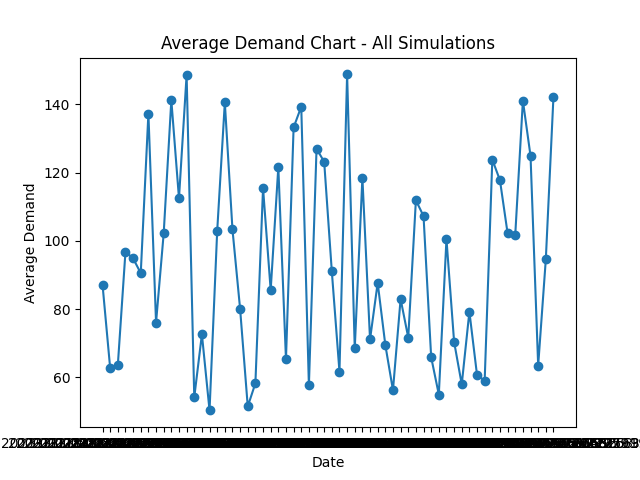
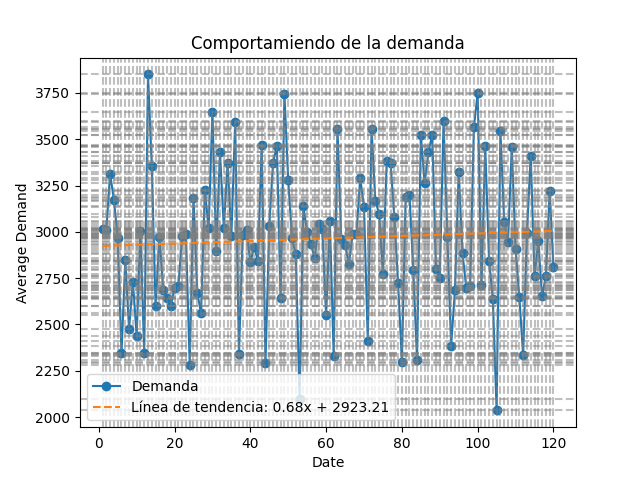
grafico

diff --git a/findempro/templates/simulate/simulate-result.html b/findempro/templates/simulate/simulate-result.html
@@ -57,8 +57,8 @@
                                                                                 </div>
                                                                                 <div class="flex-grow-1 ms-3">
                                                                                     <p class="text-uppercase fw-medium text-muted mb-3">{{ key }}</p>
-                                                                                    <h4 class="fs-4 mb-3">$<span class="counter-value" data-target="{{ value|floatformat:2 }}">{{ value|floatformat:2 }}</span></h4>
-                                                                                    <p class="text-muted mb-0">From $1,750.04 last year</p>
+                                                                                    <h4 class="fs-4 mb-3">Bs<span class="counter-value" data-target="{{ value|floatformat:2 }}">{{ value|floatformat:2 }}</span></h4>
+                                                                                    {% comment %} <p class="text-muted mb-0">From $1,750.04 last year</p> {% endcomment %}
                                                                                 </div>
                                                                                 <div class="flex-shrink-0 align-self-center">
                                                                                     <span class="badge badge-soft-success fs-12"><i class="ri-arrow-up-s-line fs-13 align-middle me-1"></i>22.96 %<span>
@@ -121,7 +121,7 @@
                                                         <table class="table table-striped table-hover align-middle table-nowrap" id="simulateTable">
                                                             <thead class="thead-light">
                                                                 <tr>
-                                                                    <th class="sort" data-sort="day">Dia</th>
+                                                                    <th class="sort" data-sort="day">Resultado</th>
                                                                     <th class="sort" data-sort="date">Fecha</th>
                                                                     <th class="sort" data-sort="demand">Demanda</th>
                                                                     <th class="sort" data-sort="demand_std">Desviacion de la demanda</th>
@@ -202,13 +202,13 @@
                                                 <nav aria-label="Page navigation example">
                                                     <ul class="pagination justify-content-center">
                                                         {% if all_variables_extracted.has_previous %}
-                                                            <li class="page-item"><a class="page-link" href="?page=1">First</a></li>
-                                                            <li class="page-item"><a class="page-link" href="?page={{ all_variables_extracted.previous_page_number }}">Previous</a></li>
+                                                            <li class="page-item"><a class="page-link" href="?page=1">Primera</a></li>
+                                                            <li class="page-item"><a class="page-link" href="?page={{ all_variables_extracted.previous_page_number }}">Anterior</a></li>
                                                         {% endif %}
 
                                                         {% if all_variables_extracted.has_next %}
-                                                            <li class="page-item"><a class="page-link" href="?page={{ all_variables_extracted.next_page_number }}">Next</a></li>
-                                                            <li class="page-item"><a class="page-link" href="?page={{ all_variables_extracted.paginator.num_pages }}">Last</a></li>
+                                                            <li class="page-item"><a class="page-link" href="?page={{ all_variables_extracted.next_page_number }}">Próxima</a></li>
+                                                            <li class="page-item"><a class="page-link" href="?page={{ all_variables_extracted.paginator.num_pages }}">Última</a></li>
                                                         {% endif %}
                                                     </ul>
                                                 </nav>

diff --git a/findempro/simulate/views.py b/findempro/simulate/views.py
@@ -351,32 +351,27 @@ def simulate_result_simulation_view(request, simulation_id):
     all_labels = []
     all_values = []
 
-    for result_simulation in result_simulations:
+    for i, result_simulation in enumerate(result_simulations):
         data = result_simulation.get_average_demand_by_date()
-        list_formatted_date = [] 
-        if data: 
+        if data:
             for entry in data:
-                date_object = entry['date']
-                formatted_date = date_object.strftime('%Y-%m-%d')
-                list_formatted_date.append(formatted_date)
+                all_labels.append(i + 1)
                 all_values.append(entry['average_demand'])
 
-    # Asegúrate de que todas las fechas sean únicas
-    all_labels = sorted(set(list_formatted_date))
-
-    # Ordena all_values de acuerdo con all_labels
-    sorted_values = [value for label, value in sorted(zip(list_formatted_date, all_values), key=lambda x: x[0])]
+    # Asegúrate de que las fechas estén ordenadas correctamente
+    sorted_data = sorted(zip(all_labels, all_values), key=lambda x: x[0])
+    all_labels, all_values = zip(*sorted_data)
 
     chart_data = {
         'labels': all_labels,
-        'values': sorted_values,
-        'x_label': 'Date',
-        'y_label': 'Average Demand',
+        'values': all_values,
+        'x_label': 'Resultado',
+        'y_label': 'Demanda',
     }
 
     # Crea el objeto Chart
     chart = Chart.objects.create(
-        title=f'Average Demand Chart - All Simulations',
+        title=f'Comportamiendo de la demanda promedio para la simulación {simulation_id}',
         chart_type='line',  # Cambia 'line' por el tipo de gráfico que desees
         chart_data=chart_data,
         fk_product=result_simulations[0].fk_simulation.fk_questionary_result.fk_questionary.fk_product,
@@ -388,7 +383,22 @@ def simulate_result_simulation_view(request, simulation_id):
     print(len(all_labels))
     print(len(all_values))
     if len(all_labels) == len(all_values):
-        plt.plot(chart_data['labels'], chart_data['values'], marker='o')
+        plt.plot(chart_data['labels'], chart_data['values'], marker='o', label='Demanda')
+        # Agrega líneas horizontales y verticales
+        for value in all_values:
+            plt.axhline(y=value, linestyle='--', color='gray', alpha=0.5)
+
+        for label in all_labels:
+            plt.axvline(x=label, linestyle='--', color='gray', alpha=0.5)
+            
+        # Agrega una línea de tendencia
+        coefficients = np.polyfit(chart_data['labels'], chart_data['values'], 1)
+        polynomial = np.poly1d(coefficients)
+        trendline_values = polynomial(chart_data['labels'])
+        plt.plot(chart_data['labels'], trendline_values, label=f'Línea de tendencia: {coefficients[0]:.2f}x + {coefficients[1]:.2f}', linestyle='--')
+
+        # Añade leyenda
+        plt.legend()
         plt.xlabel(chart_data['x_label'])
         plt.ylabel(chart_data['y_label'])
         plt.title(chart.title)

diff --git a/findempro/simulate/models.py b/findempro/simulate/models.py
@@ -149,7 +149,7 @@ class ResultSimulation(models.Model):
     last_updated = models.DateTimeField(auto_now=True)   
     def get_average_demand_by_date(self):
         average_demand_data = []
-        # Asegúrate de que self.demand_mean sea una lista, incluso si contiene un solo elemento
+        # Asegúrate de que self.demand_mean sea una lista
         demand_mean_values = [self.demand_mean] if isinstance(self.demand_mean, Decimal) else self.demand_mean
         # Convertir self.date a un objeto datetime.date si no lo es
         date_obj = datetime.strptime(str(self.date), "%Y-%m-%d").date()
@@ -158,7 +158,8 @@ class ResultSimulation(models.Model):
             # Para calcular el promedio, simplemente usa 'demand_mean_value' directamente
             average_demand = float(demand_mean_value)
             # Añade el resultado a la lista
-            average_demand_data.append({'date': date_obj, 'average_demand': average_demand})
+            average_demand_data.append({'date': date_obj.strftime("%Y-%m-%d"), 'average_demand': average_demand})
+        
         return average_demand_data
     
     def get_variables(self):
